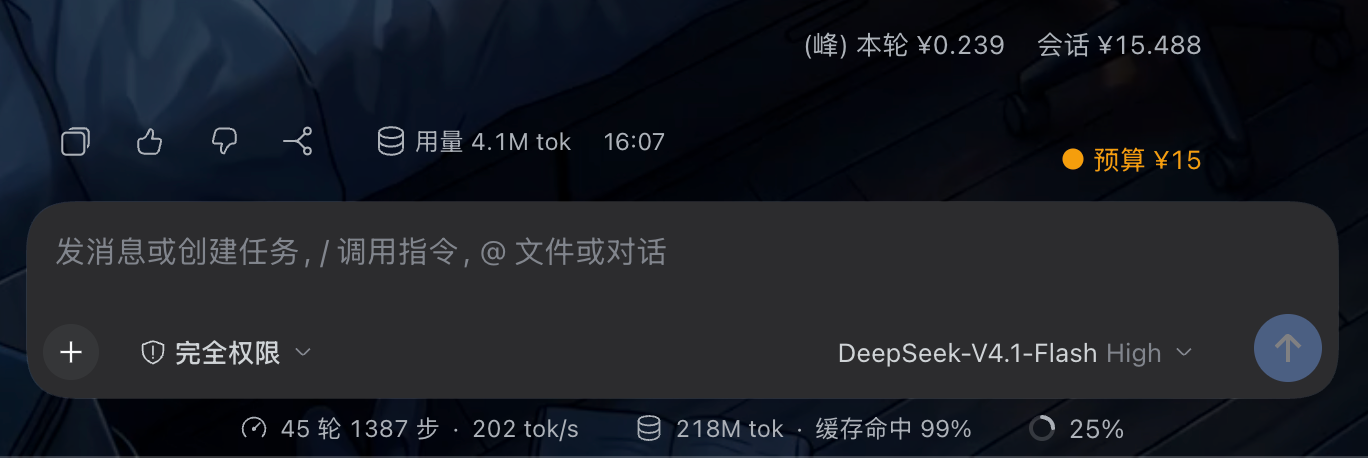
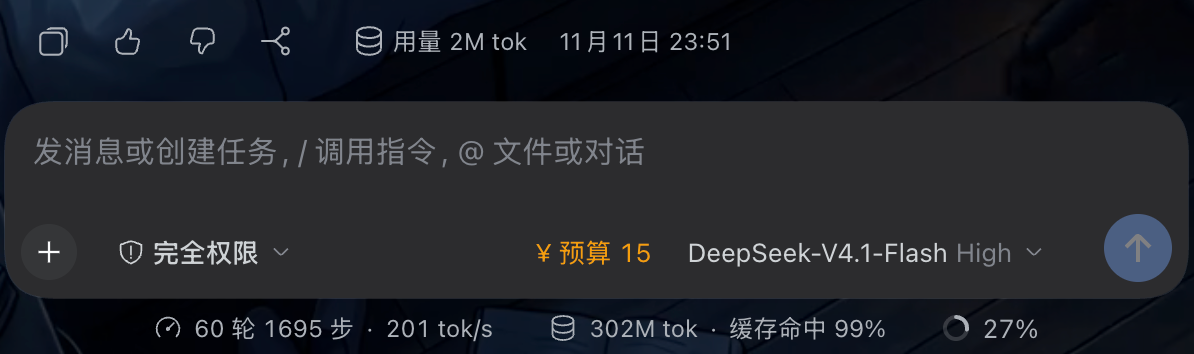
docs: sync English README screenshots section with the Chinese README

diff --git a/README.en.md b/README.en.md
@@ -9,32 +9,31 @@ Usage 19.2k
 (off-peak) This turn $0.027    Session $0.151
 ```
 
-
 ## Screenshots
 
-**Footer amounts and the budget pill**: each completed turn shows `(peak/off-peak) This turn $… Session $…`; the budget pill sits in the composer tool row, left of the model selector, reads "$ Budget 20", turns orange when the session is over budget, and collapses to just the currency symbol when the composer is narrow.
+**Set budget**: open the budget pill in the composer tool row to see this session's usage and current budget and adjust it; account balance, bonus balance and the remaining total are shown here too.
 
-![Footer amounts and the budget pill](docs/screenshots/01-turn-footer-budget.png)
+<img src="docs/screenshots/04-budget-dialog.png" alt="Set budget" style="zoom:50%;" />
+
+**Footer amounts and the budget pill**: the label turns orange when the session is over budget.
+
+<img src="docs/screenshots/01-turn-footer-budget.png" alt="Footer amounts and the budget pill" style="zoom:50%;" />
 
 **Turn cost detail**: click “This turn” to see the turn ID, model, billing period, token buckets and the per-bucket cost.
 
-![Turn cost detail](docs/screenshots/06-turn-cost-dialog.png)
+<img src="docs/screenshots/06-turn-cost-dialog.png" alt="Turn cost detail" style="zoom:50%;" />
 
-**Session cost detail**: click “Session” to see session tokens, session total, the priced range and the session ID.
+**Session cost detail**: click “Session” to see the current session's tokens, session total, the priced range and the session ID.
 
-![Session cost detail](docs/screenshots/05-session-cost-dialog.png)
-
-**Set budget**: open the budget pill in the composer tool row to see this session's usage and budget, adjust it, and review account balance, bonus balance and the remaining total.
-
-![Set budget](docs/screenshots/04-budget-dialog.png)
-
-**Billing statistics**: all sessions in one place — switch currency, grouping, sorting and time range, then select sessions and export to Excel.
-
-![Billing statistics](docs/screenshots/02-billing-overview.png)
+<img src="docs/screenshots/05-session-cost-dialog.png" alt="Session cost detail" style="zoom:50%;" />
 
 **Balance reminder and display toggles**: CNY/USD thresholds, current balance, and the three switches that control the footer amounts and the budget pill.
 
-![Balance reminder and display toggles](docs/screenshots/03-settings-billing.png)
+<img src="docs/screenshots/03-settings-billing.png" alt="Balance reminder and display toggles" style="zoom:50%;" />
+
+**Billing statistics**: all sessions in one place — switch currency, grouping, sorting and time range, then select sessions and export to Excel.
+
+<img src="docs/screenshots/02-billing-overview.png" alt="Billing statistics" style="zoom:50%;" />
 
 ## What problem it solves
 

diff --git a/README.md b/README.md
@@ -9,32 +9,31 @@
 (谷) 本轮 ¥0.189    会话 ¥1.048
 ```
 
-
 ## 截图
-
-**页脚金额与预算胶囊**：每轮结束显示「(峰/谷) 本轮 ¥… 会话 ¥…」，输入框工具行常驻预算按钮（模型选择器左侧，显示为「¥ 预算 20」；超预算时文字变橙；输入框变窄时只显示「¥」/「$」）。
-
-![页脚金额与预算胶囊](docs/screenshots/01-turn-footer-budget.png)
-
-**本轮费用明细**：点「本轮」展开，含轮次 ID、模型、计费时段、Token 统计与逐项金额。
-
-![本轮费用明细](docs/screenshots/06-turn-cost-dialog.png)
-
-**会话费用明细**：点「会话」展开，含会话 tokens、会话合计、统计范围与会话 ID。
-
-![会话费用明细](docs/screenshots/05-session-cost-dialog.png)
 
 **设置预算**：输入框工具行中的预算按钮点开后，可查看本会话已用/当前预算并调整；账户余额、赠送余额与剩余合计也在这里展示。
 
-![设置预算](docs/screenshots/04-budget-dialog.png)
+<img src="docs/screenshots/04-budget-dialog.png" alt="设置预算" style="zoom:50%;" />
 
-**计费明细统计**：所有会话的账单汇总，可按币种、分组方式、排序方式、时间范围查看，勾选后导出 Excel。
+**页脚金额与预算胶囊**：超出预算会进行变色提醒。
 
-![计费明细统计](docs/screenshots/02-billing-overview.png)
+<img src="docs/screenshots/01-turn-footer-budget.png" alt="页脚金额与预算胶囊" style="zoom:50%;" />
+
+**单次对话费用明细**：点「本轮」展开，含轮次 ID、模型、计费时段、Token 统计与逐项金额。
+
+<img src="docs/screenshots/06-turn-cost-dialog.png" alt="本轮费用明细" style="zoom:50%;" />
+
+**会话费用明细**：点「会话」展开，含当前会话 tokens、会话合计、统计范围与会话 ID。
+
+<img src="docs/screenshots/05-session-cost-dialog.png" alt="会话费用明细" style="zoom:50%;" />
 
 **余额提醒与显示项**：人民币/美元阈值、当前余额，以及控制页脚与预算按钮显示的三项开关。
 
-![余额提醒与显示项](docs/screenshots/03-settings-billing.png)
+<img src="docs/screenshots/03-settings-billing.png" alt="余额提醒与显示项" style="zoom:50%;" />
+
+**计费明细统计**：所有会话的账单汇总，可按币种、分组方式、排序方式、时间范围查看，勾选后导出 Excel。
+
+<img src="docs/screenshots/02-billing-overview.png" alt="计费明细统计" style="zoom:50%;" />
 
 ## 这个插件解决了什么问题
 
